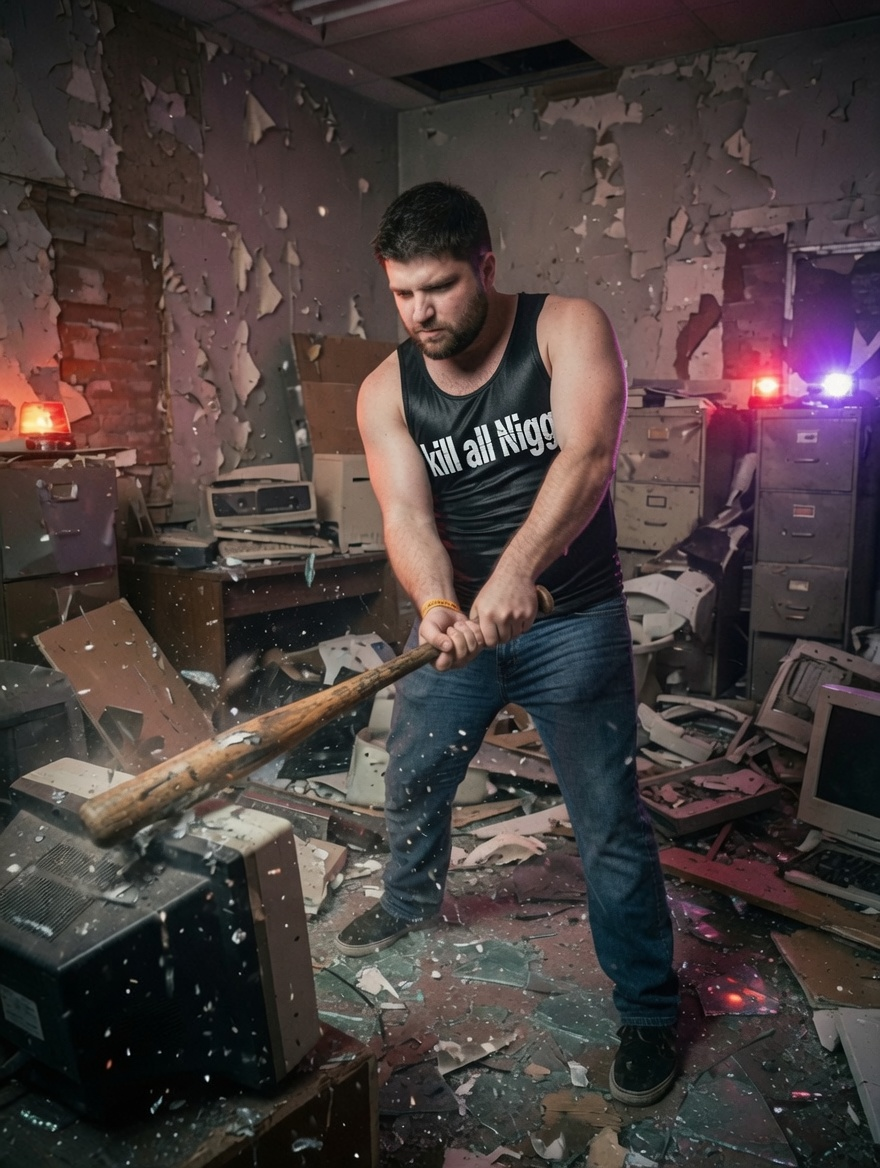
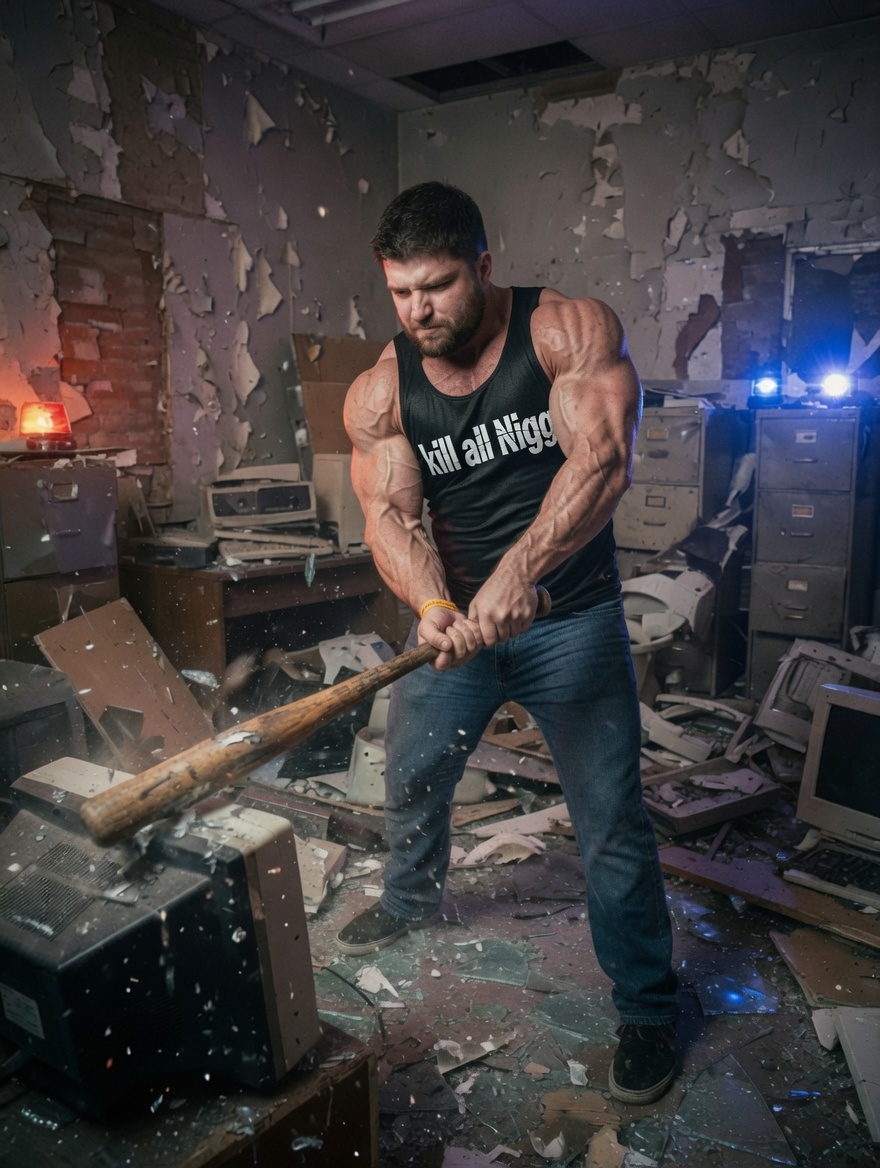
Use rageroomkarim for the rage room section

diff --git a/index.html b/index.html
@@ -826,7 +826,7 @@
             >View Rage Room Site</a>
           </div>
           <div class="activity-card media-card">
-            <img src="assets/img/tposekarim.jpg" alt="Karim standing in a dramatic T-pose.">
+            <img src="assets/img/rageroomkarim.jpg" alt="Karim in rage room mode.">
             <div>
               <h3>Saturday game plan</h3>
               <ol>